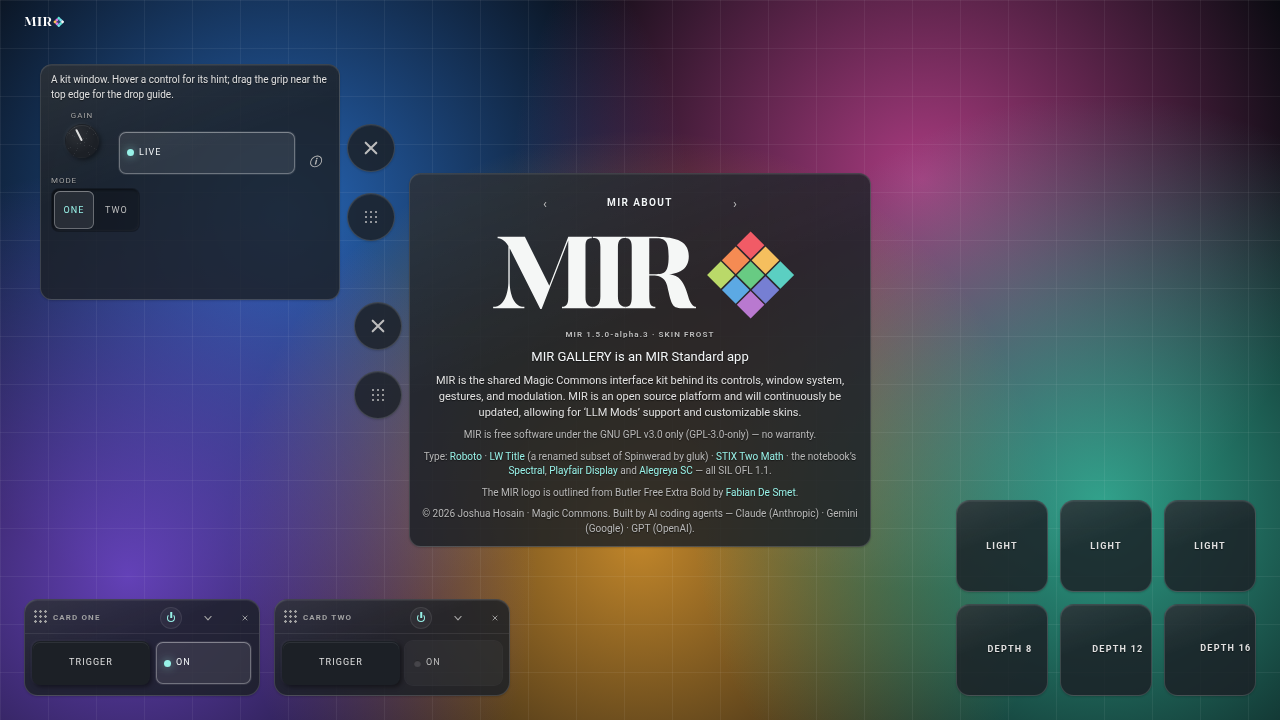
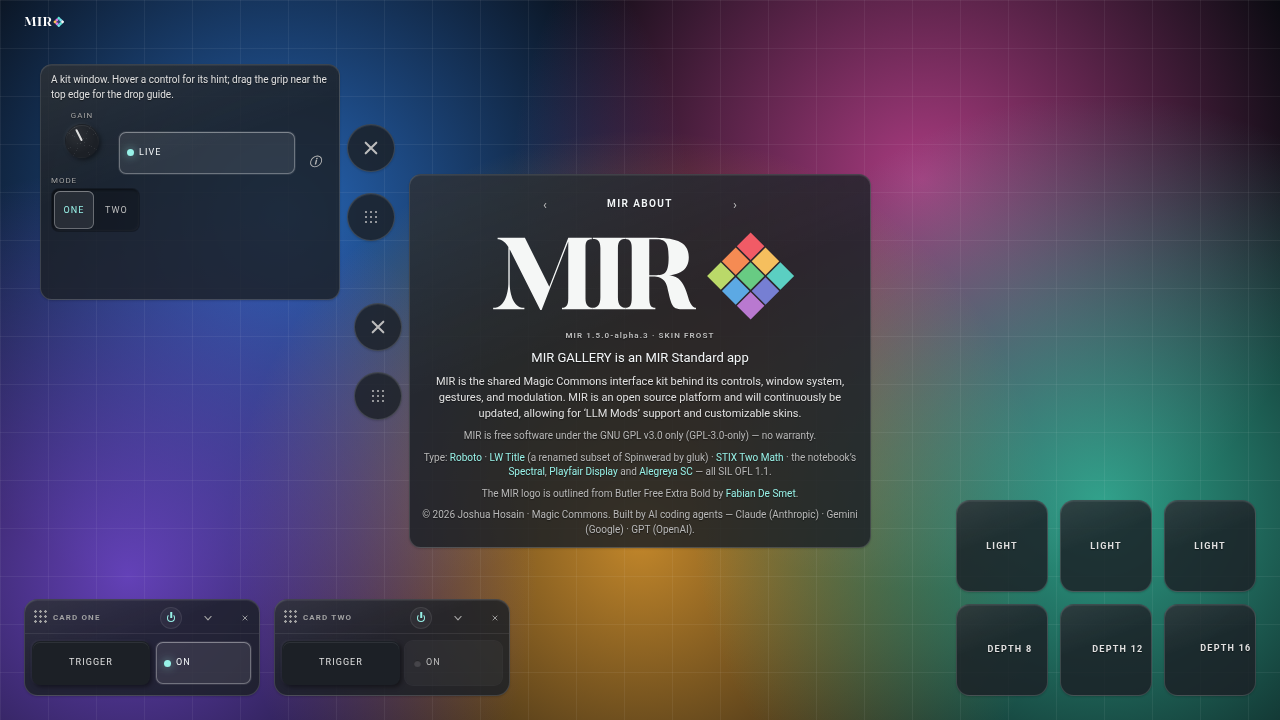
MIR 1.5.0-alpha.4: the GUI window — FROST is Josh's recipe and the default
The GLASS preset becomes FROST, Josh's ruled default: BASINS' ABOUT GLASS (veil 0,
saturation 130 %, bright/hue/tint 0, refractive, frost always) with BLUR 11 px, CORNERS 24
(maxed), SHADOW on, DISCONNECTED off; new users start on FROST with THEME dark. Ranges now
match BASINS (BLUR 0–20, VEIL 0–60, SATURATION 0–200, CORNERS 0–24). MATERIAL gains BRIGHT,
HUE (an arc in its own hue) and TINT, onto the kit's --glass-tint on <body>, as BASINS'
applyGlass computes it. WHITE TEXT, GLASS CONTROL FACES and SHADOW as an amount are listed
in docs/GUI.md as what FROST still wants. Plates retaken (*-frost.png).

Claude-Session: https://claude.ai/code/session_01216PZJdRDXuZKuuo4X6KUw

diff --git a/mir/shell/gui.js b/mir/shell/gui.js
@@ -47,7 +47,17 @@ export const SKINS = Object.freeze([{ id: 'frost', label: 'FROST' }, { id: 'metr
 /** the words MIR says about itself — quoted from magic-commons.com/joshs-library/lambdawaves/about (2026-10-01) */
 export const MIR_WORDS = 'MIR is the shared Magic Commons interface kit behind its controls, window system, gestures, and modulation. MIR is an open source platform and will continuously be updated, allowing for ‘LLM Mods’ support and customizable skins.';
 const ZERO_SHADOW = '0 0 0 0 transparent';                       // the off shadow: never `none` (a list with none drops)
-const HOME = Object.freeze({ blur: 22, veil: 10, saturation: 1, corners: 14 });   // base.css --glass-blur · the dark frost veil · no saturate · skin.css --card-r
+const HOME = Object.freeze({ veil: 10, saturation: 1, corners: 14 });   // where nothing is written: the dark frost veil · no saturate · skin.css --card-r
+/* the theme's own glass tint (skin.css: dark hsl(214 16% 13%), light hsl(214 22% 93%)), which BRIGHT, HUE and TINT move */
+const THEME_TINT = Object.freeze({ dark: { h: 214, s: 16, l: 13 }, light: { h: 214, s: 22, l: 93 } });
+/** glassTint(bright, hue, tint, theme) — BASINS skin.js applyGlass: lightness + 40·BRIGHT, hue → HUE and saturation → 70 %
+ *  by TINT.  → the `H S% L%` triple the kit reads as --glass-tint, or null at home (BRIGHT 0, TINT 0) */
+export function glassTint(bright, hue, tint, theme) {
+  if (!bright && !tint) return null;
+  const T = THEME_TINT[theme] || THEME_TINT.dark;
+  const h = tint > 0 ? Math.round(hue) : T.h, sat = +(T.s + tint * (70 - T.s)).toFixed(1), l = +Math.max(2, Math.min(98, T.l + 40 * bright)).toFixed(1);
+  return `${h} ${sat}% ${l}%`;
+}
 
 /* ── THE LOOK, as one schema: what each option is, and the hook it drives ───────────────────────────────────────────
    Rows are applied in this order inside one frame job, so THEME is on <body> before the accent reads it, and the tier
@@ -65,16 +75,21 @@ export function lookSchema() {
       if (c.lastAccent === k) return;
       c.lastAccent = k; c.accent.set({ a: s.accentA, b: s.accentB, vivid: v });
     } }] },
-    { key: 'card', type: 'enum', values: ['tinted', 'refractive'], default: 'tinted', apply: [{ on: 'body', attr: 'data-card' }] },
-    { key: 'frost', type: 'enum', values: ['off', 'still', 'always'], default: 'off', apply: [
+    { key: 'card', type: 'enum', values: ['tinted', 'refractive'], default: 'refractive', apply: [{ on: 'body', attr: 'data-card' }] },
+    { key: 'frost', type: 'enum', values: ['off', 'still', 'always'], default: 'always', apply: [
       { on: 'body', cls: 'frost', when: (v) => v !== 'off' },
       { run(v, s, e, c) { const b = c && c.doc && c.doc.body; if (b) b.classList.toggle('frost-hold', v === 'still' && !!c.moving); } }] },
-    { key: 'blur', type: 'number', step: 1, min: 0, max: 40, default: HOME.blur, apply: [{ on: 'html', prop: '--glass-blur', map: (v) => (v === HOME.blur ? null : v + 'px') }] },
-    { key: 'veil', type: 'number', step: 1, min: 0, max: 40, default: HOME.veil, apply: [{ on: 'body', prop: '--surface-veil',
+    /* BLUR is BASINS' 0–20 px (20 is the WebKit ceiling), so it is always written: the kit's own 22 is outside it */
+    { key: 'blur', type: 'number', step: 1, min: 0, max: 20, default: 11, apply: [{ on: 'html', prop: '--glass-blur', map: (v) => v + 'px' }] },
+    { key: 'veil', type: 'number', step: 1, min: 0, max: 60, default: 0, apply: [{ on: 'body', prop: '--surface-veil',
       map: (v, s, e) => (v === HOME.veil || !full(s) ? null : `hsl(${e.theme === 'light' ? '0 0% 100%' : '0 0% 0%'} / ${(v / 100).toFixed(2)})`) }] },
-    { key: 'saturation', type: 'number', step: 0.01, min: 0.5, max: 2, default: HOME.saturation, apply: [{ on: 'body', prop: '--surface-filter',
+    { key: 'saturation', type: 'number', step: 0.01, min: 0, max: 2, default: 1.3, apply: [{ on: 'body', prop: '--surface-filter',
       map: (v, s) => (!full(s) ? null : s.blur === 0 ? 'none' : v === HOME.saturation ? null : `blur(${s.blur}px) saturate(${v.toFixed(2)})`) }] },
-    { key: 'corners', type: 'number', step: 1, min: 0, max: 24, default: HOME.corners, apply: [{ on: 'body', prop: '--surface-radius', map: (v) => (v === HOME.corners ? null : Math.round(v) + 'px') }] },
+    { key: 'corners', type: 'number', step: 1, min: 0, max: 24, default: 24, apply: [{ on: 'body', prop: '--surface-radius', map: (v) => (v === HOME.corners ? null : Math.round(v) + 'px') }] },
+    /* BRIGHT, HUE, TINT — BASINS' glass knobs, onto the kit's --glass-tint on <body> (the tinted pane and every solid face) */
+    { key: 'bright', type: 'number', step: 0.01, min: -1, max: 1, default: 0 },
+    { key: 'hue', type: 'number', step: 1, min: 0, max: 360, wrap: true, default: 0 },
+    { key: 'tint', type: 'number', step: 0.01, min: 0, max: 1, default: 0, apply: [{ on: 'body', prop: '--glass-tint', map: (v, s, e) => glassTint(s.bright, s.hue, v, e.theme) }] },
     { key: 'relief', type: 'enum', values: ['default', 'flat'], default: 'default', apply: [
       { on: 'html', prop: '--relief-raise', map: (v) => (v === 'flat' ? ZERO_SHADOW : null) },
       { on: 'html', prop: '--relief-well', map: (v) => (v === 'flat' ? ZERO_SHADOW : null) }] },
@@ -93,11 +108,14 @@ export function lookSchema() {
   ];
 }
 /** the presets: named sets of the MATERIAL, RELIEF and QUALITY options.  Accents, theme, motion and text are the user's
- *  own and no preset touches them. */
+ *  own and no preset touches them.
+ *  FROST is Josh's recipe (2026-10-01) and the new user's look: BASINS' ABOUT GLASS (skin.js setMaterialPreset('about'):
+ *  ABOUT_MATERIAL veil 0 · radius 16 · shadow 1, ABOUT_SATURATION 1.3, GLASS_DEF bright 0 · hue 0 · tint 0, refractive,
+ *  frost always) with his changes: BLUR 11 px, CORNERS maxed (24), SHADOW maxed (on, until it is an amount), DISCONNECTED off. */
 export const LOOK_PRESETS = Object.freeze({
-  classic: { card: 'tinted', frost: 'off', blur: HOME.blur, veil: HOME.veil, saturation: HOME.saturation, corners: HOME.corners, relief: 'default', shadow: true, disconnected: false, quality: 'full' },
-  glass: { card: 'refractive', frost: 'always', blur: 8, veil: 0, saturation: 1.3, corners: 16, relief: 'default', shadow: true, disconnected: true, quality: 'full' },
-  light: { card: 'tinted', frost: 'off', blur: HOME.blur, veil: HOME.veil, saturation: HOME.saturation, corners: HOME.corners, relief: 'flat', shadow: false, disconnected: false, quality: 'light' },
+  frost: { card: 'refractive', frost: 'always', blur: 11, veil: 0, saturation: 1.3, corners: 24, bright: 0, tint: 0, relief: 'default', shadow: true, disconnected: false, quality: 'full' },
+  classic: { card: 'tinted', frost: 'off', blur: 20, veil: HOME.veil, saturation: HOME.saturation, corners: HOME.corners, bright: 0, tint: 0, relief: 'default', shadow: true, disconnected: false, quality: 'full' },
+  light: { card: 'tinted', frost: 'off', blur: 20, veil: HOME.veil, saturation: HOME.saturation, corners: HOME.corners, bright: 0, tint: 0, relief: 'flat', shadow: false, disconnected: false, quality: 'light' },
 });
 
 /* ── THE STEPPER: `‹ NAME ›`, two 44 px buttons around a live label (BASINS colour-window.js blend-mode picker) ───── */
@@ -189,8 +207,8 @@ export function createGui({ host, prefs, app = {}, about = {}, accent, defaults 
   /* PRESET */
   let g = groupEl('preset', 'PRESET');
   const presetSeg = seg({ label: 'LOOK', options: [
+    { id: 'frost', label: 'FROST', title: 'Josh\u2019s glass: refractive frost, 11 px, 130 % saturation, round corners' },
     { id: 'classic', label: 'CLASSIC', title: 'The 1.4 look: tinted panes, no blur, the relief' },
-    { id: 'glass', label: 'GLASS', title: 'BASINS today: refractive frost, separate headers' },
     { id: 'light', label: 'LIGHT', title: 'The fast look: no blur, flat, no shadows, no motion' },
     { id: 'custom', label: 'CUSTOM', title: 'Your own mix: the options match no preset' }], value: P.preset(),
     onChange: (id) => { if (id !== 'custom') P.applyPreset(id); } });
@@ -220,11 +238,20 @@ export function createGui({ host, prefs, app = {}, about = {}, accent, defaults 
   g = groupEl('material', 'MATERIAL');
   line(g, 'gui-pair').append(segOf('card', 'PANE', [['tinted', 'TINTED', 'A tinted pane: no blur, no compositor cost'], ['refractive', 'REFRACTIVE', 'The blur alone, with a veil']]).root,
     segOf('frost', 'FROST', [['off', 'OFF'], ['still', 'STILL', 'Frost while the picture is still'], ['always', 'ALWAYS', 'Frost always: the costliest']]).root);
-  const kBlur = knobOf('blur', 'BLUR', { min: 0, max: 40, fmt: (v) => Math.round(v) + 'px' });
-  const kVeil = knobOf('veil', 'VEIL', { min: 0, max: 40, fmt: (v) => Math.round(v) + '%' });
-  const kSat = knobOf('saturation', 'SATURATION', { min: 0.5, max: 2, fmt: (v) => Math.round(v * 100) + '%' });
+  const kBlur = knobOf('blur', 'BLUR', { min: 0, max: 20, fmt: (v) => Math.round(v) + 'px' });
+  const kVeil = knobOf('veil', 'VEIL', { min: 0, max: 60, fmt: (v) => Math.round(v) + '%' });
+  const kSat = knobOf('saturation', 'SATURATION', { min: 0, max: 2, fmt: (v) => Math.round(v * 100) + '%' });
   const kCorner = knobOf('corners', 'CORNERS', { min: 0, max: 24, fmt: (v) => Math.round(v) + 'px' });
   line(g, 'gui-knobs').append(kBlur.root, kVeil.root, kSat.root, kCorner.root);
+  const signed = (v) => (v > 0.005 ? '+' : v < -0.005 ? '\u2212' : '') + Math.abs(v * 100).toFixed(0);
+  const kBright = knobOf('bright', 'BRIGHT', { min: -1, max: 1, fmt: signed });
+  /* HUE is cyclic, so an arc (INTENT rule 2), drawn in the hue it names */
+  const kHue = knobOf('hue', 'HUE', { min: 0, max: 360, wrap: true, fmt: deg, cls: 'accent-dial' });
+  const kTint = knobOf('tint', 'TINT', { min: 0, max: 100, fmt: (v) => Math.round(v) + '%', toUi: (v) => v * 100, fromUi: (v) => v / 100 });
+  const hueArc = (v) => { setVar(kHue.root, '--accent-sweep', Math.round(v) + 'deg'); setVar(kHue.root, '--acc', `hsl(${Math.round(v)} 70% 55%)`); };
+  hueArc(P.get('hue'));
+  const holder = el('div', 'k'); holder.setAttribute('aria-hidden', 'true');      // the fourth seat, so the two dial rows share columns
+  line(g, 'gui-knobs').append(kBright.root, kHue.root, kTint.root, holder);
 
   /* RELIEF */
   g = groupEl('relief', 'RELIEF');
@@ -235,8 +262,11 @@ export function createGui({ host, prefs, app = {}, about = {}, accent, defaults 
   g = groupEl('motion', 'MOTION');
   line(g).append(segOf('motion', 'MOTION', [['auto', 'AUTO', 'Follow the system'], ['full', 'FULL'], ['reduced', 'REDUCED', 'Fades only: nothing travels'], ['off', 'OFF', 'Nothing animates']]).root);
   line(g, 'gui-sws').append(swOf('glow', 'POINTER GLOW', 'A soft light follows the pointer over lit surfaces (never on touch)').root,
-    swOf('parallax', 'PARALLAX', 'Marked layers drift against the pointer (never on touch)').root,
-    swOf('dropGuides', 'DROP GUIDES', 'The dotted guide where a dragged window will land').root);
+    swOf('parallax', 'PARALLAX', 'Marked layers drift against the pointer (never on touch)').root);
+  line(g, 'gui-sws').append(swOf('dropGuides', 'DROP GUIDES', 'The dotted guide where a dragged window will land').root,
+    Object.assign(el('div', 'sw'), { ariaHidden: 'true' }));         // an empty, invisible seat, so DROP GUIDES is as wide as the two above
+  g.lastElementChild.lastElementChild.style.visibility = 'hidden';
+
 
   /* TEXT */
   g = groupEl('text', 'TEXT');
@@ -367,10 +397,12 @@ export function createGui({ host, prefs, app = {}, about = {}, accent, defaults 
     for (const k of changed) { const c = controls.get(k); if (c) c.set(state[k]); }
     if (changed.includes('accentA')) swA(state.accentA);
     if (changed.includes('accentB')) swB(state.accentB);
+    if (changed.includes('hue')) hueArc(state.hue);
     const preset = P.preset();
     presetSeg.set(preset); presetSeg.button('custom').hidden = preset !== 'custom';
     const full = state.quality === 'full';
     kBlur.setDisabled(!full); kSat.setDisabled(!full); kVeil.setDisabled(!full || state.card !== 'refractive');
+    kHue.setDisabled(!state.tint);                                    // HUE shows only through TINT
     if (changed.includes('theme') && page === 'about') showLogo();
     if (changed.length) { fit(); measureCost(); }
   }

diff --git a/docs/GUI.md b/docs/GUI.md
@@ -40,7 +40,7 @@ engine.onMoving((moving) => gui.moving(moving));               // FROST · STILL
 
 `createGui` applies the stored look at once (before the first paint), so call it early, before the app draws its windows.
 
-**What an app can delete.** Every row of its own Settings that is a look option: in BASINS, all of **Settings › LOOK** (THEME, CARD STYLE, FROST, DISCONNECTED, UI FLAT/DEFAULT, SATURATION, BLUR, VEIL, CORNERS, SHADOW, ACCENT A/B, VIVID, ABOUT GLASS/RESET) and from **Settings › DISPLAY** CONTROL HINTS, HELP, UI DROP SHADOW and DOCK GUIDE, with the code in `skin.js` that applies them and their keys in `basins.settings`. The rows listed below as *waiting for the token* stay in the app until their hook lands. Settings keeps QUALITY for the renderer and the app's own rows. The pointer helpers also replace the three parallax implementations and the opener's glow pipeline (below).
+**What an app can delete.** Every row of its own Settings that is a look option: in BASINS, all of **Settings › LOOK** (THEME, CARD STYLE, FROST, DISCONNECTED, UI FLAT/DEFAULT, SATURATION, BLUR, VEIL, CORNERS, SHADOW, ACCENT A/B, VIVID, BRIGHT, HUE, TINT, ABOUT GLASS/RESET) and from **Settings › DISPLAY** CONTROL HINTS, HELP, UI DROP SHADOW and DOCK GUIDE, with the code in `skin.js` that applies them and their keys in `basins.settings`. The rows listed below as *waiting for the token* stay in the app until their hook lands. Settings keeps QUALITY for the renderer and the app's own rows. The pointer helpers also replace the three parallax implementations and the opener's glow pipeline (below).
 
 ## The API
 
@@ -48,7 +48,7 @@ engine.onMoving((moving) => gui.moving(moving));               // FROST · STILL
 - `createGui({ host, prefs, app, about, accent, defaults, storageKey })` → `{ root, window, prefs, open(page), close(), toggle(page), page, turn(dir), moving(bool), dropGuides(), census(), light, parallax, destroy() }`.
   - `open('options' | 'about')`; `turn(±1)` steps the page turner; `page` is the page showing.
   - `prefs` is the store (below): `gui.prefs.set('theme', 'light')`, `gui.prefs.subscribe(fn)`.
-- `lookSchema()` — the options as schema rows. `LOOK_PRESETS` — CLASSIC, GLASS, LIGHT. `SKINS`. `MIR_VERSION`. `MIR_WORDS`.
+- `lookSchema()` — the options as schema rows. `LOOK_PRESETS` — FROST, CLASSIC, LIGHT. `glassTint(bright, hue, tint, theme)` — the `--glass-tint` triple. `SKINS`. `MIR_VERSION`. `MIR_WORDS`.
 - `stepper({ label, items, value, onChange, wrap })` — the `‹ NAME ›` control (BASINS' blend-mode picker): two 44 px buttons around a live label; arrow keys step it; an item marked `coming` is listed but never chosen.
 - `census(doc)` → `{ blur, shadow }` — how many visible surfaces carry a backdrop filter and a drawn shadow.
 
@@ -68,7 +68,7 @@ Every control on MIR OPTIONS changes what is drawn through a hook a kit sheet or
 
 | Group | Option | Control | Hook it drives | Home (writes nothing) |
 |---|---|---|---|---|
-| PRESET | CLASSIC · GLASS · LIGHT · CUSTOM | seg | sets the MATERIAL, RELIEF and QUALITY options at once (below); CUSTOM shows only when the options match no preset | CLASSIC |
+| PRESET | FROST · CLASSIC · LIGHT · CUSTOM | seg | sets the MATERIAL, RELIEF and QUALITY options at once (below); CUSTOM shows only when the options match no preset | **FROST** (new users) |
 | | RESET LOOK | trig | every option home; the stored key is removed | |
 | SKIN | `‹ FROST ›` | stepper | `<html data-skin="frost">` — the seam for 1.5.5; METRO and SPRITES are listed as coming | FROST |
 | | THEME light · dark · system | seg | `<body data-theme>`; SYSTEM follows `prefers-color-scheme` live | dark |
@@ -76,10 +76,11 @@ Every control on MIR OPTIONS changes what is drawn through a hook a kit sheet or
 | | VIVID | dial | `accent.set({ vivid })` → `--acc-glow` and the chroma | 10 % |
 | MATERIAL | PANE tinted · refractive | seg | `<body data-card>` | tinted |
 | | FROST off · still · always | seg | `body.frost`; under STILL, `body.frost-hold` while `gui.moving(true)` | off |
-| | BLUR 0–40 px | dial | `--glass-blur` on `<html>` (it feeds `--frost-filter` there); 0 writes `--surface-filter: none`, never `blur(0)` | 22 px |
-| | VEIL 0–40 % | dial | `--surface-veil` on `<body>` (white on light, black on dark). Disabled unless REFRACTIVE at FULL | the house veils |
-| | SATURATION 50–200 % | dial | `--surface-filter: blur(Npx) saturate(s)` on `<body>`. Disabled below FULL | 100 % |
+| | BLUR 0–20 px (BASINS' range; 20 is the WebKit ceiling) | dial | `--glass-blur` on `<html>` (it feeds `--frost-filter` there), always written, since the kit's own 22 px is outside the range; 0 writes `--surface-filter: none`, never `blur(0)` | none (FROST: 11) |
+| | VEIL 0–60 % | dial | `--surface-veil` on `<body>` (white on light, black on dark). Disabled unless REFRACTIVE at FULL | the house veils |
+| | SATURATION 0–200 % | dial | `--surface-filter: blur(Npx) saturate(s)` on `<body>`. Disabled below FULL | 100 % |
 | | CORNERS 0–24 px | dial | `--surface-radius` on `<body>` | 14 px |
+| | BRIGHT −100…+100 · HUE 0–360° (an arc, drawn in its hue) · TINT 0–100 % | dials | `--glass-tint` on `<body>` (the tinted pane and every solid face: dials, triggers, chosen segments), as BASINS' `applyGlass`: lightness + 40·BRIGHT, hue → HUE and saturation → 70 % by TINT, from the theme's own tint. HUE is disabled while TINT is 0. BASINS also nudges its veil by ½·BRIGHT; here the veil is VEIL's alone | BRIGHT 0, TINT 0 |
 | RELIEF | CONTROLS default · flat | seg | `--relief-raise`, `--relief-well` = `0 0 0 0 transparent` on `<html>` | default |
 | | SHADOW | switch | `--surface-shadow`, `-float`, `-menu` = `0 0 0 0 transparent` on `<body>` | on |
 | | DISCONNECTED | switch | `body.disconnected` | off |
@@ -94,11 +95,18 @@ Every control on MIR OPTIONS changes what is drawn through a hook a kit sheet or
 
 **The presets** set only MATERIAL, RELIEF and QUALITY. Theme, accents, motion and text are the user's own, and no preset touches them.
 
-| | PANE | FROST | BLUR | VEIL | SATURATION | CORNERS | CONTROLS | SHADOW | DISCONNECTED | QUALITY |
-|---|---|---|---|---|---|---|---|---|---|---|
-| **CLASSIC** (the 1.4 spirit) | tinted | off | 22 | home | 100 % | 14 | default | on | off | FULL |
-| **GLASS** (BASINS today) | refractive | always | 8 | 0 | 130 % | 16 | default | on | on | FULL |
-| **LIGHT** (fast) | tinted | off | 22 | home | 100 % | 14 | flat | off | off | LIGHT |
+| | PANE | FROST | BLUR | VEIL | SATURATION | CORNERS | BRIGHT · TINT | CONTROLS | SHADOW | DISCONNECTED | QUALITY |
+|---|---|---|---|---|---|---|---|---|---|---|---|
+| **FROST** (Josh's recipe, the default) | refractive | always | 11 | 0 | 130 % | 24 | 0 · 0 | default | on | off | FULL |
+| **CLASSIC** (the 1.4 spirit) | tinted | off | 20 | home | 100 % | 14 | 0 · 0 | default | on | off | FULL |
+| **LIGHT** (fast) | tinted | off | 20 | home | 100 % | 14 | 0 · 0 | flat | off | off | LIGHT |
+
+**FROST** is Josh's own default (2026-10-01): *"'About Glass', Shadow maxed, Veil 0, Brightness 0, Dark mode, White Text, Glass control surface, Blur at 11px. Saturation bumped to 130. Tint 0, and disconnected off. Corners knob maxed. This will be known as 'Frost'. … Refractive on and frost always."* BASINS' ABOUT GLASS (`skin.js setMaterialPreset('about')`) is `ABOUT_MATERIAL` = veil 0 · radius 16 · shadow 1, `ABOUT_SATURATION` = 1.3, `GLASS_DEF` = bright 0 · hue 0 · tint 0, refractive, frost always; his changes on top: BLUR 11, CORNERS 24 (the knob's maximum), SHADOW maxed, DISCONNECTED off. New users start on FROST with THEME dark.
+
+**FROST wants these; they arrive with the FROST skin package.** Part of Josh's recipe has no kit hook yet, so it is not faked:
+- **WHITE TEXT** — the ink law (BASINS' TEXT LIGHT);
+- **GLASS CONTROL FACES** — clear control faces (BASINS' CONTROL FACES · GLASS);
+- **SHADOW maxed (200 %)** — SHADOW is a switch until the pane shadow is an amount (BASINS' SHADOW 0–200 %).
 
 **QUALITY is the tier.** FULL is no attribute, BALANCED is `lite` (no blur anywhere, one shadow layer, a legible tinted pane) and LIGHT is `flat` (lite, plus no relief, no shadows, no sheen, no motion). Below FULL the tier owns the pane, so BLUR, VEIL and SATURATION stand down: they write nothing and their dials are disabled. AUTO and the governor are not built: there is no tier logic without a measurement on a real app.
 
@@ -107,7 +115,7 @@ Every control on MIR OPTIONS changes what is drawn through a hook a kit sheet or
 - **SHADOW** — how many draw a shadow.
 - **FRAME** — the mean frame time over the next 30 frames.
 
-It is taken once per change and never on a timer, so the reading costs nothing at rest. In the gallery, CLASSIC reads BLUR 0, GLASS reads BLUR 16.
+It is taken once per change and never on a timer, so the reading costs nothing at rest. In the gallery, CLASSIC reads BLUR 0 and FROST reads BLUR 14.
 
 ### Options left out, and what each waits for
 
@@ -115,11 +123,11 @@ These are in the plan's table but have no hook a kit sheet reads yet. A control 
 
 | Option | Waits for |
 |---|---|
-| RELIEF › FACES glass ↔ solid | the face tokens (`--face-fill`, `--face-fill-hover`, `--face-fill-press` are rows in `mir/tokens.json`, but no kit sheet reads them yet). BASINS draws its faces in its own `material.css` |
+| RELIEF › FACES glass ↔ solid (FROST wants GLASS) | the face tokens (`--face-fill`, `--face-fill-hover`, `--face-fill-press` are rows in `mir/tokens.json`, but no kit sheet reads them yet). BASINS draws its faces in its own `material.css` |
 | RELIEF › ACCENT BARS | a kit hook for the selected window's accent head. λWAVES draws it app-side (`.dev.native-selected > .dev-head`) |
-| TEXT › AUTO · LIGHT · DARK | the ink law in the kit. `data-text` and the adaptive sampler are BASINS' (`ink.css`, `adaptive-ink.js`); no kit sheet reads `data-text` |
+| TEXT › AUTO · LIGHT · DARK (FROST wants LIGHT: white text) | the ink law in the kit. `data-text` and the adaptive sampler are BASINS' (`ink.css`, `adaptive-ink.js`); no kit sheet reads `data-text` |
 | TEXT › STATUS TAGS | a kit class that hides the badges. `body.no-badges` is BASINS' `lab.css` |
-| SHADOW as an amount | a shadow-strength token. The pane shadows are literals in the theme, so SHADOW is a switch |
+| SHADOW as an amount, 0–200 % (FROST wants it maxed) | a shadow-strength token. The pane shadows are literals in the theme, so SHADOW is a switch |
 | SKIN › METRO, SPRITES | their skin packages (plan §8.3, 1.5.5) |
 | QUALITY › AUTO | the governor, after a measured reason |
 
@@ -204,6 +212,6 @@ Those are the defaults (`--light-blend`, `--light-strength`). It is a softer thi
   - no panel overflows at 1280×720 or at 390×844 (every sheet);
   - the glow follows the pointer and a still pointer writes nothing;
   - glow and parallax are off under reduced motion, in the flat tier and on a coarse pointer.
-- Plates in `docs/plates/gui/`: both pages, dark and light, CLASSIC and GLASS; the glow on the glass; the five phone pages.
+- Plates in `docs/plates/gui/`: both pages, dark and light, FROST and CLASSIC; the glow on the glass; the five phone pages.
 - **FROST · STILL on a joined pane is held by the kit:** while `body.frost-hold` is set, a REFRACTIVE pane (joined or disconnected, and its rail chip) stops blurring and wears the tinted fill (`mir/css/skin.css`; proved in `tests/intent.browser.mjs`), so STILL differs from ALWAYS on every window.
 - **Not proven:** WebKit and a real iPad; the frame time on a busy app (the reading is honest about the gallery, which is idle).
